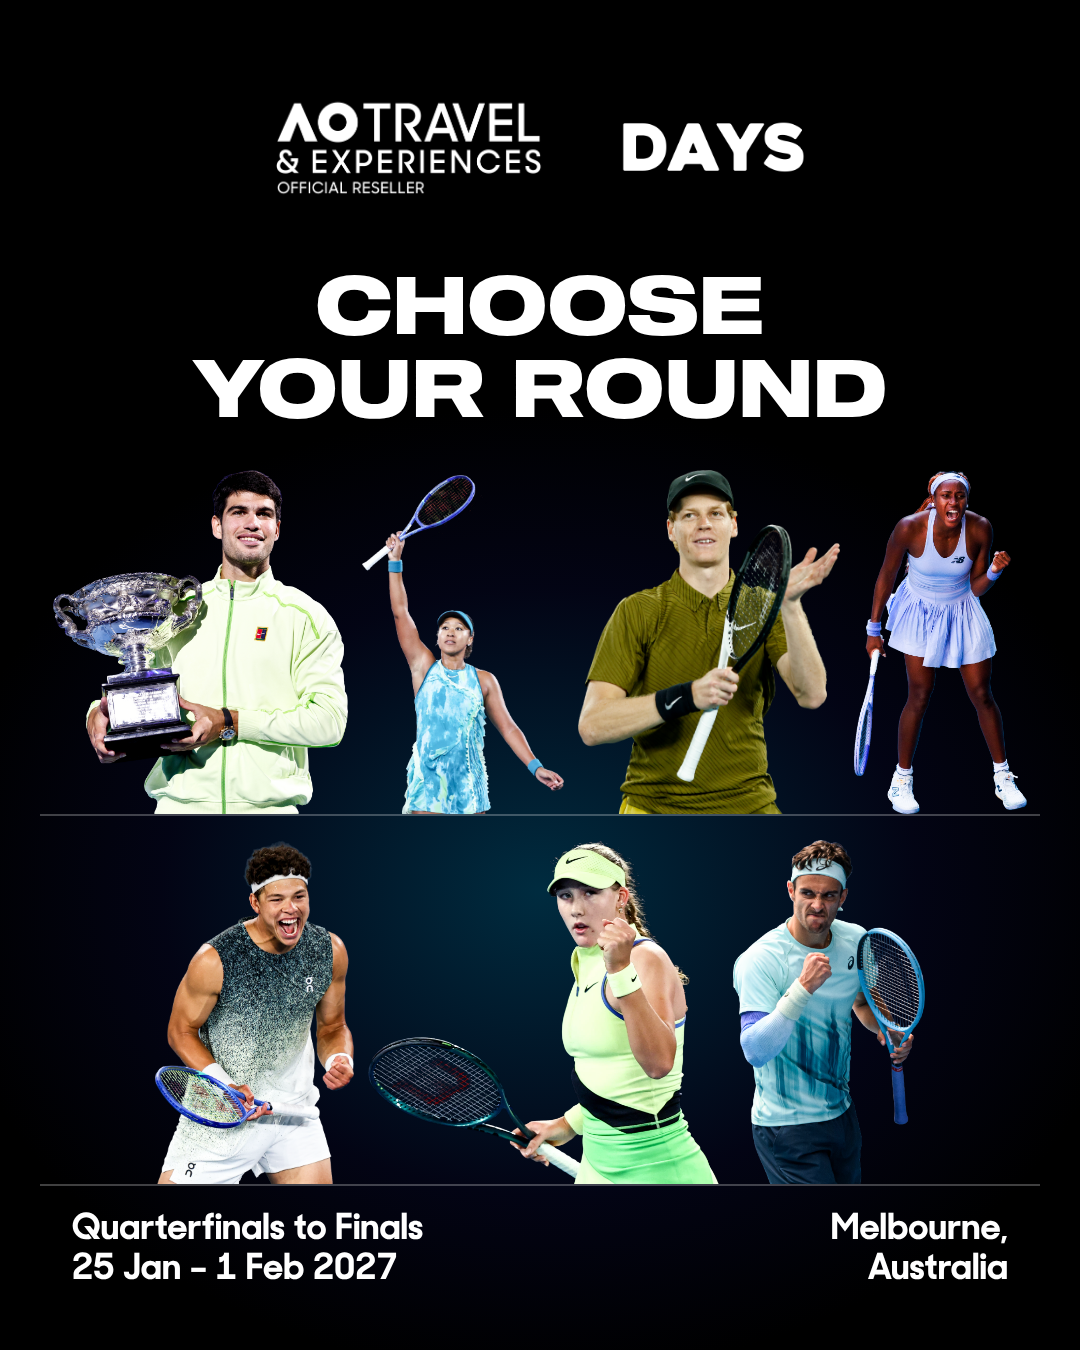
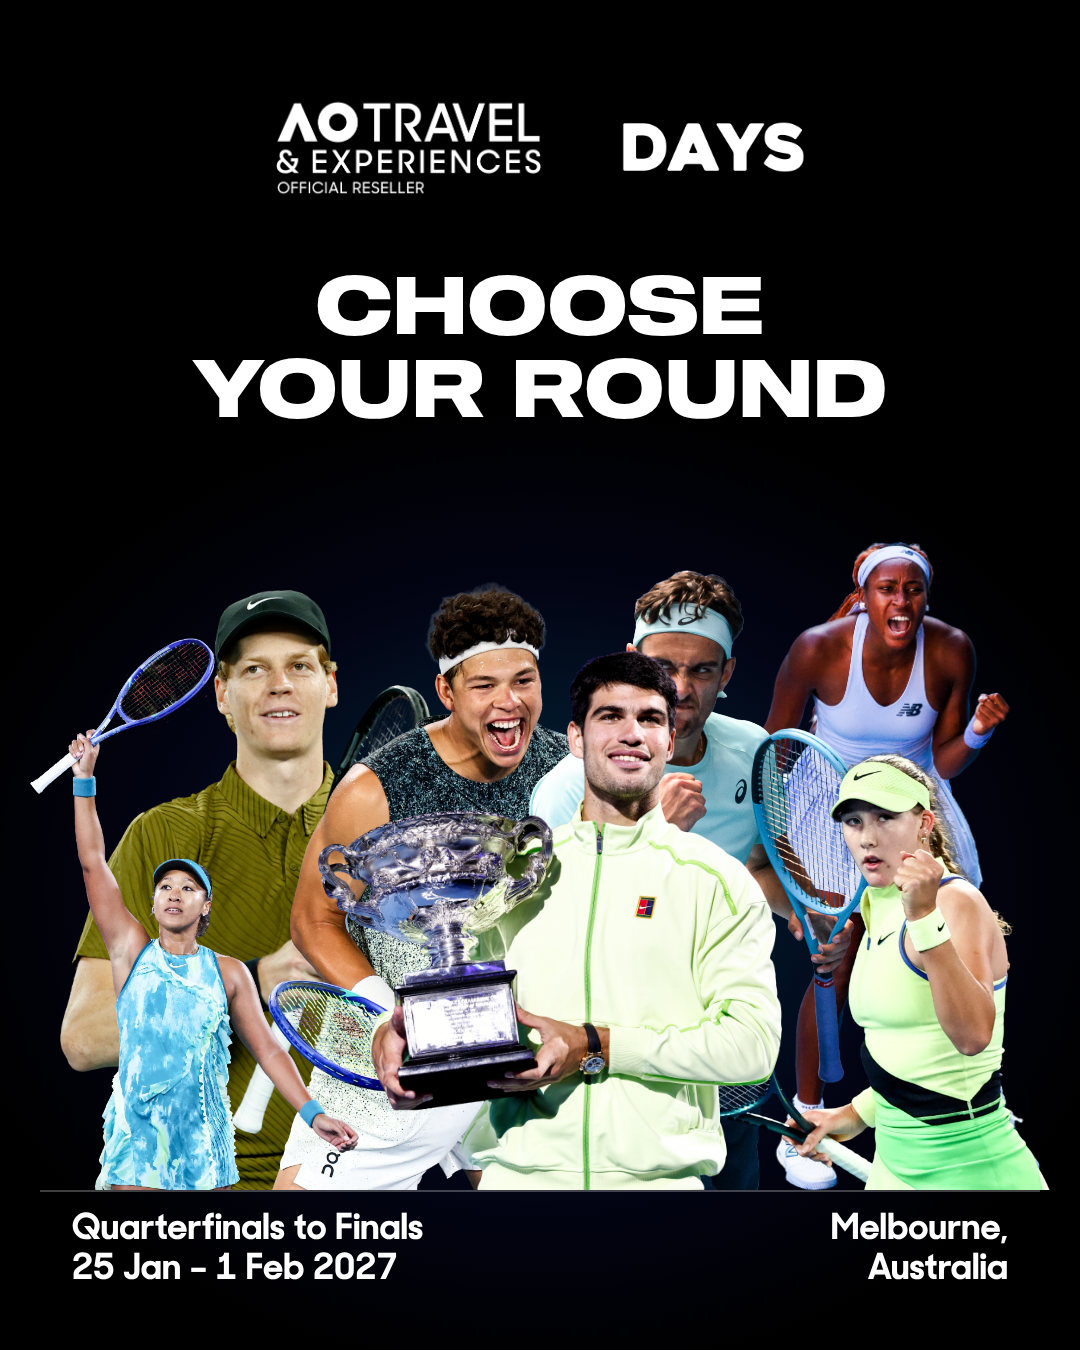
AO 2027: group the seven players on the Post 2 cover, overlapping
Claude-Session: https://claude.ai/code/session_01Eb5aT3tpEevDBBbf6MCDFd

diff --git a/social/ao-2027/slides.html b/social/ao-2027/slides.html
@@ -71,9 +71,9 @@ h2 em{font-style:normal;color:var(--blue)}
 /* ---------- post 2 cover ---------- */
 .c2{background:radial-gradient(70% 45% at 50% 66%,rgba(0,145,210,.30) 0,rgba(11,16,80,.25) 50%,rgba(0,0,0,0) 80%),#000}
 .c2 h1{position:absolute;left:72px;right:72px;top:262px;font-size:80px;line-height:1.04;text-align:center}
-.c2 .players{position:absolute;left:40px;right:40px;top:470px;height:716px;display:flex;flex-direction:column;justify-content:space-between}
-.c2 .row{height:346px;display:flex;justify-content:center;align-items:flex-end;gap:14px;border-bottom:2px solid rgba(255,255,255,.25)}
-.c2 .row img{display:block;height:100%;width:auto}
+.c2 .players{position:absolute;left:0;right:0;top:450px;height:740px}
+.c2 .players img{position:absolute;bottom:0;display:block;width:auto}
+.c2 .base{position:absolute;left:40px;right:40px;top:1190px;border-top:2px solid rgba(255,255,255,.25)}
 .c2 .meta{position:absolute;left:72px;right:72px;top:1210px;display:flex;justify-content:space-between;align-items:flex-start;font-size:36px;line-height:1.12}
 .c2 .meta .r{text-align:right}
 </style>
@@ -84,10 +84,17 @@ h2 em{font-style:normal;color:var(--blue)}
 <section class="slide c2" data-id="c2">
   <div class="lockup"><img class="ao" src="brand/AOTE-official-reseller-white.png" alt="AO Travel &amp; Experiences Official Reseller"><img class="days" src="img/days-wordmark.png" alt="DAYS"></div>
   <h1>Choose<br>your round</h1>
+  <!-- Players may overlap one another; no text sits on any image. Back to front. -->
   <div class="players">
-    <div class="row"><img src="img/player-m-alcaraz.png" alt=""><img src="img/player-a-trim.png" alt=""><img src="img/player-m-sinner.png" alt=""><img src="img/player-w-gauff.png" alt=""></div>
-    <div class="row"><img src="img/player-m-shelton.png" alt=""><img src="img/player-b-trim.png" alt=""><img src="img/player-m-4.png" alt=""></div>
+    <img src="img/player-m-sinner.png" alt="" style="left:60px;height:600px;z-index:1">
+    <img src="img/player-w-gauff.png" alt="" style="right:40px;height:650px;z-index:1">
+    <img src="img/player-m-shelton.png" alt="" style="left:268px;height:610px;z-index:2">
+    <img src="img/player-m-4.png" alt="" style="right:206px;height:620px;z-index:2">
+    <img src="img/player-a-trim.png" alt="" style="left:30px;height:560px;z-index:3">
+    <img src="img/player-b-trim.png" alt="" style="right:30px;height:440px;z-index:3">
+    <img src="img/player-m-alcaraz.png" alt="" style="left:318px;height:540px;z-index:4">
   </div>
+  <div class="base"></div>
   <div class="meta"><span>Quarterfinals to Finals<br>25 Jan – 1 Feb 2027</span><span class="r">Melbourne,<br>Australia</span></div>
 </section>
 

diff --git a/DESIGN.md b/DESIGN.md
@@ -44,7 +44,7 @@ Anything DAYS makes as an AO Travel & Experiences official reseller follows the 
 - **Logo on everything.** No content goes out without the AO Travel & Experiences Official Reseller logo. Use the official file, unaltered (the white and black versions are embedded in the guidelines PDF). Place it in a clear area, never over the main content of a photo, and never below 100px wide on screen. Pair it with the DAYS logo as on AO's approved assets.
 - **Colour.** AO Process Blue `#0091D2` for accents. DAYS Orange is not used in AO content.
 - **Headings** in Sequel 100 Wide, always capitalised. Body copy in Sharp Sans Bold or Medium.
-- **Imagery.** Only images supplied in the AO kit. Don't crop, recolour or alter them. Photos (including player cut-outs) are never covered by text or graphics and never placed over text or another photo.
+- **Imagery.** Only images supplied in the AO kit. Don't crop, recolour or alter them. Photos are never covered by text or graphics and never placed over text. Player cut-outs may overlap one another, as long as no text sits on them.
 - **Maps.** No custom seating maps or diagrams. Use the official Rod Laver Arena map as supplied, or none.
 - **Wording.** Write the status exactly as **"AO Travel & Experiences official reseller"**. Always "&", never "and", in "AO Travel & Experiences". "Quarterfinals" and "Semifinals" are one word.
 - **Approval.** All artwork and copy go to AO Travel & Experiences for approval via Hightail (copy as a Word document) at least five business days before posting.

diff --git a/social/ao-2027/caption.md b/social/ao-2027/caption.md
@@ -71,7 +71,7 @@ DM kami atau WhatsApp +62 812-2000-0185.
 
 | # | Slide | Source |
 |---|---|---|
-| 01 | Cover: *CHOOSE YOUR ROUND*, seven player cut-outs (four men, three women) in two rows, nothing overlapping | DAYS, built from official AO imagery |
+| 01 | Cover: *CHOOSE YOUR ROUND*, seven player cut-outs (four men, three women) grouped together; players overlap one another, no text on any image | DAYS, built from official AO imagery |
 | 02 | Quarterfinals · Men & Women · 25–28 Jan 2027 | AO-approved |
 | 03 | Semifinals · Men & Women · 28–31 Jan 2027 | AO-approved |
 | 04 | Finals · Men & Women · 29 Jan – 1 Feb 2027 | AO-approved |
